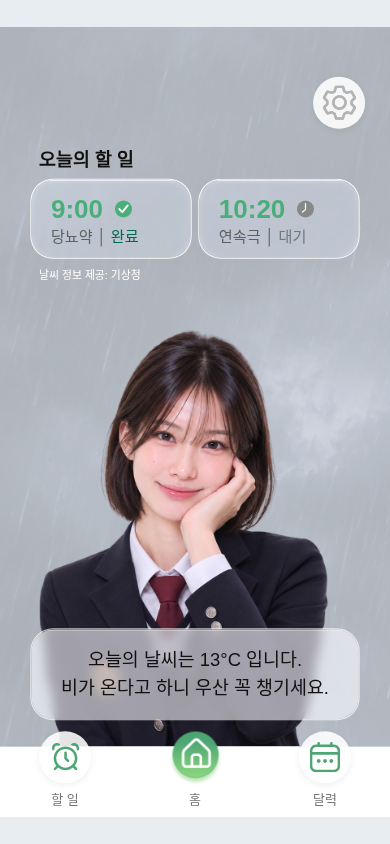
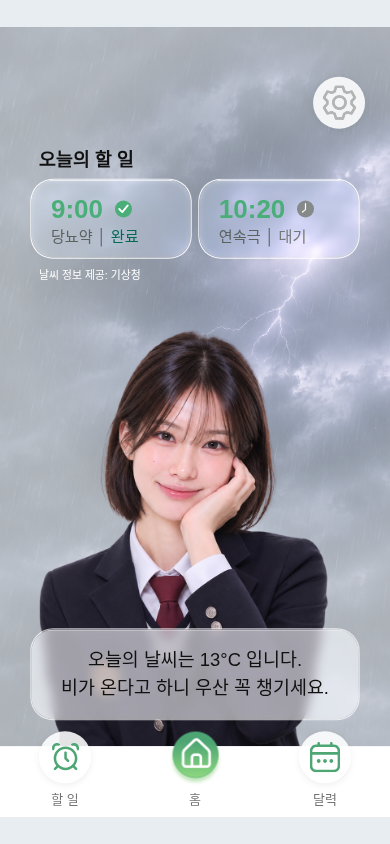
Restore visible lightning in thunder home background

Changed region(s): [[0.2462, 0.0924, 1.0, 0.5853]]

diff --git a/weather-schedule-app/src/components/home/WeatherBackground.tsx b/weather-schedule-app/src/components/home/WeatherBackground.tsx
@@ -1,3 +1,4 @@
+import Svg, { Defs, RadialGradient, Rect, Stop } from 'react-native-svg';
 import { Image, StyleSheet, View } from 'react-native';
 import { backgroundCondition } from '../../features/weather/presentation';
 import type { WeatherCondition } from '../../features/weather/types';
@@ -9,8 +10,30 @@ const backgrounds = {
   thunder: require('../../../assets/design/weather-backgrounds/thunder.png'),
 };
 const whiteVeil = { clear: 0.357, cloudy: 0.059, rain: 0.481, snow: 0.145, thunder: 0.609 };
+/** Keep the reference's light sky; preserve local contrast around the original bolt.
+ * Coordinates refer to the existing 360×664 background, not a fabricated lightning asset.
+ */
+function ThunderLight() {
+  return <Svg pointerEvents="none" style={StyleSheet.absoluteFill} width="100%" height="100%" viewBox="0 0 360 664" preserveAspectRatio="none">
+    <Defs>
+      <RadialGradient id="thunderVeil" gradientUnits="userSpaceOnUse" cx="282" cy="242" rx="100" ry="132">
+        <Stop offset="0" stopColor="white" stopOpacity={0.22}/>
+        <Stop offset="0.35" stopColor="white" stopOpacity={0.30}/>
+        <Stop offset="0.75" stopColor="white" stopOpacity={0.50}/>
+        <Stop offset="1" stopColor="white" stopOpacity={0.609}/>
+      </RadialGradient>
+      <RadialGradient id="thunderGlow" gradientUnits="userSpaceOnUse" cx="290" cy="205" rx="38" ry="38">
+        <Stop offset="0" stopColor="#F8F5FF" stopOpacity={0.30}/>
+        <Stop offset="0.35" stopColor="#F8F5FF" stopOpacity={0.10}/>
+        <Stop offset="1" stopColor="#F8F5FF" stopOpacity={0}/>
+      </RadialGradient>
+    </Defs>
+    <Rect width="360" height="664" fill="url(#thunderVeil)"/>
+    <Rect width="360" height="664" fill="url(#thunderGlow)"/>
+  </Svg>;
+}
 export function WeatherBackground({ condition }: { condition: WeatherCondition }) {
-  return <View style={styles.layer}><Image testID={`weather-background-${condition}`} source={backgrounds[backgroundCondition(condition)]} style={StyleSheet.absoluteFill} resizeMode="cover" accessible={false} /><View pointerEvents="none" style={[StyleSheet.absoluteFill, { backgroundColor: `rgba(255,255,255,${whiteVeil[backgroundCondition(condition)]})` }]}/></View>;
+  return <View style={styles.layer}><Image testID={`weather-background-${condition}`} source={backgrounds[backgroundCondition(condition)]} style={[StyleSheet.absoluteFill, condition === 'thunder' && { width: '100%', height: '100%' }]} resizeMode="cover" accessible={false} />{condition === 'thunder' ? <ThunderLight/> : <View pointerEvents="none" style={[StyleSheet.absoluteFill, { backgroundColor: `rgba(255,255,255,${whiteVeil[backgroundCondition(condition)]})` }]}/>}</View>;
 }
 
 const styles = StyleSheet.create({ layer: { position: 'absolute', top: 0, left: 0, right: 0, bottom: 66 } });
